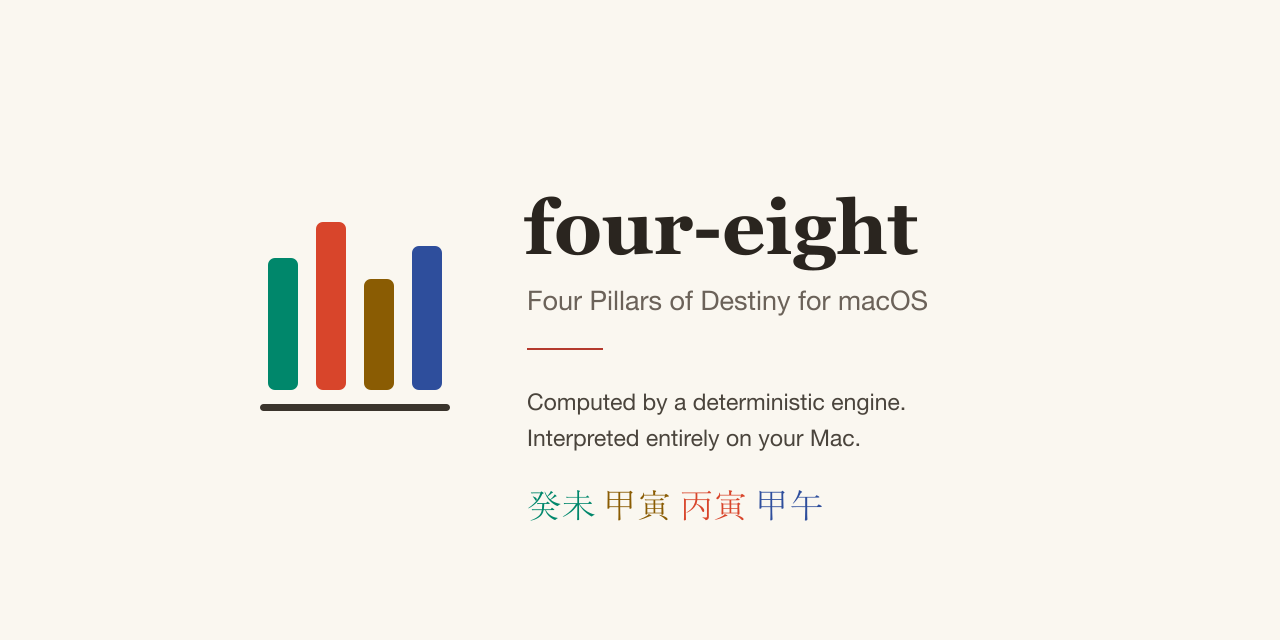
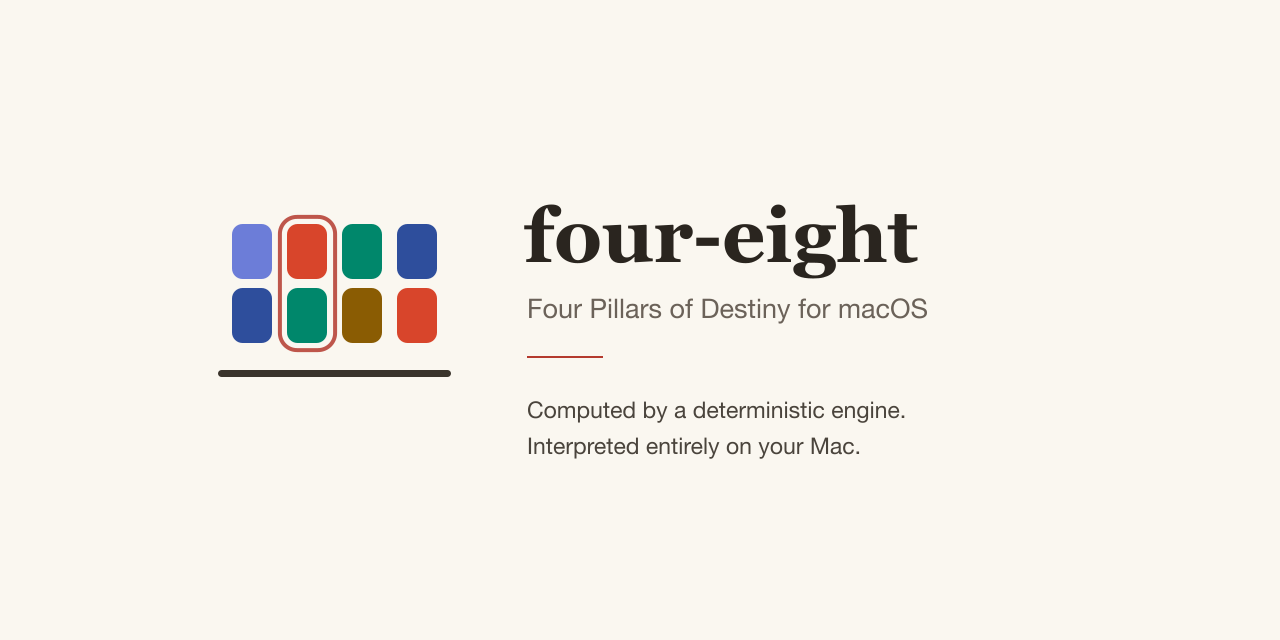
feat(brand): 아이콘과 로고를 명식 구조로 다시 그림
막대 넷은 분석 도구 아이콘으로 읽혔다. 네 기둥이 각각 천간과 지지 두
칸으로 서서 여덟 칸이 되게 바꿨다. 사주팔자이자 앱 이름이다.

일주 열에만 주사 테두리를 둘러 명식에서 '나'에 해당하는 자리를 표시한다.
색은 앱의 오행 팔레트와 같은 값을 쓴다.

diff --git a/scripts/gen_appicon.swift b/scripts/gen_appicon.swift
@@ -1,5 +1,9 @@
 #!/usr/bin/env swift
-// 앱 아이콘 생성 — 한지 위 네 기둥.
+// 앱 아이콘 생성 — 한지 위의 명식.
+//
+// 네 기둥이 각각 천간과 지지 두 칸으로 서서 여덟 칸이 된다. 사주팔자이자
+// 앱 이름이다. 일주 열에만 주사(朱砂) 테두리를 둘러 "나"를 표시한다.
+//
 // 사용: swift scripts/gen_appicon.swift <출력 PNG 경로>
 
 import AppKit
@@ -10,14 +14,22 @@ let outPath = CommandLine.arguments.count > 1
     ? CommandLine.arguments[1]
     : "App/FourEight/Assets.xcassets/AppIcon.appiconset/icon_1024.png"
 
-func color(_ hex: UInt32) -> CGColor {
+func color(_ hex: UInt32, alpha: CGFloat = 1) -> CGColor {
     CGColor(
         srgbRed: CGFloat((hex >> 16) & 0xFF) / 255,
         green: CGFloat((hex >> 8) & 0xFF) / 255,
         blue: CGFloat(hex & 0xFF) / 255,
-        alpha: 1
+        alpha: alpha
     )
 }
+
+// 오행 잉크 — 앱의 라이트 모드 팔레트와 같은 값.
+let wood: UInt32 = 0x00876B
+let fire: UInt32 = 0xD8452B
+let earth: UInt32 = 0x8A5C03
+let metal: UInt32 = 0x6C7DD8
+let water: UInt32 = 0x2E4E9C
+let cinnabar: UInt32 = 0xB43A2E
 
 let ctx = CGContext(
     data: nil, width: Int(size), height: Int(size),
@@ -26,18 +38,17 @@ let ctx = CGContext(
     bitmapInfo: CGImageAlphaInfo.premultipliedLast.rawValue
 )!
 
-// macOS 아이콘 관례: 여백을 두른 둥근 사각 판.
+// macOS 아이콘 관례의 둥근 사각 판.
 let margin = size * 0.098
 let plate = CGRect(x: margin, y: margin, width: size - margin * 2, height: size - margin * 2)
 let plateRadius = plate.width * 0.225
 
-// 한지 판 — 살짝 따뜻한 종이색, 아래로 미세한 명암.
-let platePath = CGPath(roundedRect: plate, cornerWidth: plateRadius, cornerHeight: plateRadius, transform: nil)
-ctx.addPath(platePath)
+ctx.saveGState()
+ctx.addPath(CGPath(roundedRect: plate, cornerWidth: plateRadius, cornerHeight: plateRadius, transform: nil))
 ctx.clip()
 let gradient = CGGradient(
     colorsSpace: CGColorSpace(name: CGColorSpace.sRGB)!,
-    colors: [color(0xFBF8F1), color(0xF1EBDD)] as CFArray,
+    colors: [color(0xFCF9F3), color(0xF0E9DA)] as CFArray,
     locations: [0, 1]
 )!
 ctx.drawLinearGradient(
@@ -46,45 +57,71 @@ ctx.drawLinearGradient(
     end: CGPoint(x: size / 2, y: margin),
     options: []
 )
+ctx.restoreGState()
 
-// 네 기둥 — 오행 잉크 (청록·주사·황토·감청), 시일월년의 압축 상형.
-let inks: [UInt32] = [0x00876B, 0xD84B2F, 0x8A5C03, 0x2E4E9C]
-let barCount = 4.0
-let barWidth = plate.width * 0.118
-let barGap = plate.width * 0.072
-let groupWidth = barWidth * barCount + barGap * (barCount - 1)
-let baseX = plate.minX + (plate.width - groupWidth) / 2
-let baseY = plate.minY + plate.height * 0.24
-// 높낮이 리듬 — 명식의 들쭉날쭉한 기세.
-let heights: [Double] = [0.42, 0.52, 0.36, 0.47]
+// 여덟 칸. 열은 시일월년 순으로 서고, 위가 천간 아래가 지지다.
+// 배열은 균형 잡힌 오행 분포를 따르되 일주 열(index 1)이 화·목이 되게 두었다.
+let columns: [(stem: UInt32, branch: UInt32)] = [
+    (metal, water),   // 시주
+    (fire, wood),     // 일주 — 강조
+    (wood, earth),    // 월주
+    (water, fire),    // 년주
+]
+let dayColumn = 1
 
-for i in 0..<4 {
-    let h = plate.height * heights[i]
-    let rect = CGRect(
-        x: baseX + Double(i) * (barWidth + barGap),
-        y: baseY,
-        width: barWidth,
-        height: h
-    )
-    let path = CGPath(
-        roundedRect: rect,
-        cornerWidth: barWidth * 0.24, cornerHeight: barWidth * 0.24,
-        transform: nil
-    )
-    ctx.addPath(path)
-    ctx.setFillColor(color(inks[i]))
-    ctx.fillPath()
+let cellW = plate.width * 0.152
+let cellH = plate.height * 0.208
+let colGap = plate.width * 0.052
+let rowGap = plate.height * 0.030
+let cellR = cellW * 0.26
+
+let groupW = cellW * 4 + colGap * 3
+let groupH = cellH * 2 + rowGap
+let originX = plate.minX + (plate.width - groupW) / 2
+let originY = plate.minY + (plate.height - groupH) / 2 + plate.height * 0.028
+
+for (i, column) in columns.enumerated() {
+    let x = originX + Double(i) * (cellW + colGap)
+
+    for (row, ink) in [(1, column.stem), (0, column.branch)] {
+        let y = originY + Double(row) * (cellH + rowGap)
+        let rect = CGRect(x: x, y: y, width: cellW, height: cellH)
+        ctx.addPath(CGPath(roundedRect: rect, cornerWidth: cellR, cornerHeight: cellR, transform: nil))
+        ctx.setFillColor(color(ink))
+        ctx.fillPath()
+    }
+
+    // 일주 열에만 주사 테두리 — 명식에서 "나"에 해당하는 자리.
+    if i == dayColumn {
+        let pad = cellW * 0.145
+        let frame = CGRect(
+            x: x - pad, y: originY - pad,
+            width: cellW + pad * 2, height: groupH + pad * 2
+        )
+        ctx.addPath(CGPath(
+            roundedRect: frame,
+            cornerWidth: cellR + pad * 0.8, cornerHeight: cellR + pad * 0.8,
+            transform: nil
+        ))
+        ctx.setStrokeColor(color(cinnabar, alpha: 0.85))
+        ctx.setLineWidth(size * 0.0135)
+        ctx.strokePath()
+    }
 }
 
-// 바닥 기준선 — 지평의 먹선.
+// 지반의 먹선.
 ctx.setFillColor(color(0x3A342C))
 let baseline = CGRect(
-    x: plate.minX + plate.width * 0.16,
-    y: baseY - plate.height * 0.045,
-    width: plate.width * 0.68,
-    height: plate.height * 0.012
+    x: originX - cellW * 0.30,
+    y: originY - plate.height * 0.077,
+    width: groupW + cellW * 0.60,
+    height: plate.height * 0.0125
 )
-ctx.addPath(CGPath(roundedRect: baseline, cornerWidth: baseline.height / 2, cornerHeight: baseline.height / 2, transform: nil))
+ctx.addPath(CGPath(
+    roundedRect: baseline,
+    cornerWidth: baseline.height / 2, cornerHeight: baseline.height / 2,
+    transform: nil
+))
 ctx.fillPath()
 
 let image = ctx.makeImage()!
